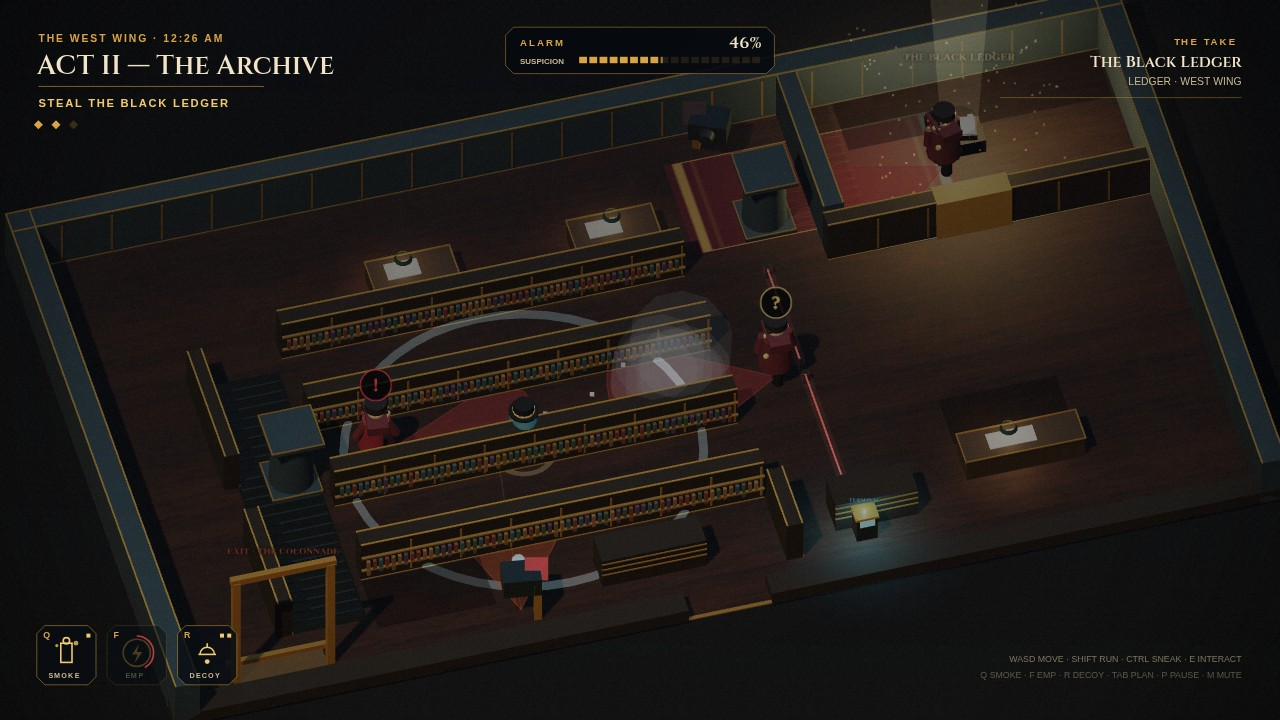
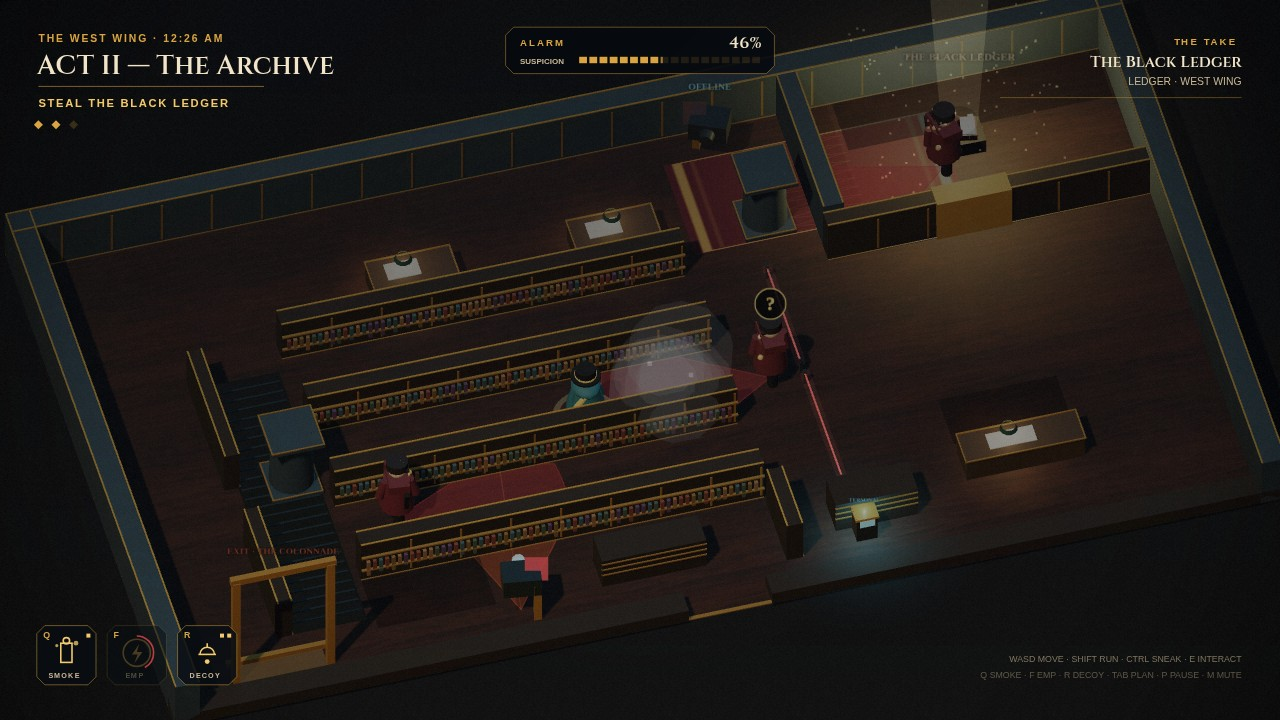
Stage the smoke play and show the EMP-blackened camera

diff --git a/game/src/shots.js b/game/src/shots.js
@@ -28,28 +28,25 @@ export function stageShot(world, name) {
 
   if (name === 'tools') {
     world.alarm = 46;
-    world.player.x = 600;
-    world.player.y = 540;
-    world.player.facing = Math.PI;
+    world.player.x = 700;
+    world.player.y = 500;
+    world.player.facing = 0;
     world.player.sneaking = true;
-    world.player.shadowed = true;
     world.tools.smoke.charges = 1;
     world.tools.emp.charges = 0;
     world.tools.decoy.charges = 2;
     world.tools.emp.cooldown = 0.42;
-    world.smokes.push({ x: 830, y: 480, radius: 110, life: 3.8, maxLife: 5.4, spin: 0.7 });
-    world.rings.push({ x: 600, y: 540, radius: 250, grow: 0, life: 0.4, maxLife: 0.7, color: '#79d5e8', width: 2.5 });
+    world.smokes.push({ x: 824, y: 500, radius: 112, life: 3.8, maxLife: 5.4, spin: 0.7 });
     world.hint = null;
     world.level.doors[0].open = true;
-    positionGuard(world.guards[0], 974, 500, Math.PI, 'investigate', 0.74);
-    positionGuard(world.guards[1], 398, 500, 0.12, 'chase', 1);
+    positionGuard(world.guards[0], 966, 500, Math.PI, 'investigate', 0.72);
+    positionGuard(world.guards[1], 398, 612, 0.12, 'patrol', 0.2);
     positionGuard(world.guards[2], 1300, 190, 2.9, 'patrol', 0.1);
     freezeCamera(world.cameras[0], 2.02, 8);
     freezeCamera(world.cameras[1], -1.42);
     world.particles.push(
-      { x: 760, y: 478, vx: 22, vy: -12, life: 1.8, maxLife: 2.2, size: 18, color: 'rgba(190,203,206,0.22)' },
-      { x: 706, y: 512, vx: -14, vy: 8, life: 1.4, maxLife: 2, size: 24, color: 'rgba(190,203,206,0.18)' },
-      { x: 636, y: 522, vx: 0, vy: 0, life: 0.4, maxLife: 0.7, size: 3, color: '#79d5e8' },
+      { x: 796, y: 486, vx: 18, vy: -12, life: 1.8, maxLife: 2.2, size: 18, color: 'rgba(190,203,206,0.22)' },
+      { x: 848, y: 514, vx: -12, vy: 8, life: 1.4, maxLife: 2, size: 24, color: 'rgba(190,203,206,0.18)' },
     );
     return;
   }

diff --git a/game/src/renderer3d.js b/game/src/renderer3d.js
@@ -951,6 +951,10 @@ export function createRenderer(canvas) {
       const lensGlow = new THREE.Mesh(new THREE.SphereGeometry(5.5, 10, 10), new THREE.MeshBasicMaterial({ color: 0xbff4ff, transparent: true, opacity: 0.95 }));
       lensGlow.position.set(0, 0, 18);
       group.add(lensGlow);
+      const offline = makeTextSprite('OFFLINE', '#79d5e8', 360, 64, 90);
+      offline.position.set(0, 44, 0);
+      offline.visible = false;
+      group.add(offline);
       dynamicGroup.add(group);
 
       const cone = new THREE.Mesh(new THREE.BufferGeometry(), new THREE.MeshBasicMaterial({
@@ -972,7 +976,7 @@ export function createRenderer(canvas) {
       beam.position.set(cameraDef.range / 2, 2.2, 0);
       beamGroup.add(beam);
       dynamicGroup.add(beamGroup);
-      refs.cameras.push({ index, camera: cameraDef, group, lens, lensGlow, blink, cone, beamGroup, beam });
+      refs.cameras.push({ index, camera: cameraDef, group, lens, lensGlow, blink, offline, cone, beamGroup, beam });
     });
   }
 
@@ -1100,6 +1104,7 @@ export function createRenderer(canvas) {
       const disabled = cameraState.disabled > 0;
       item.lens.material = disabled ? assets.steel : assets.cyan;
       item.lensGlow.visible = !disabled;
+      item.offline.visible = disabled;
       item.blink.material.opacity = disabled ? 0.2 : cameraState.alert > 0 ? 0.4 + 0.6 * Math.sin(time * 14) : 0.55 + 0.45 * Math.sin(time * 2.6);
       if (disabled) {
         item.cone.visible = false;
